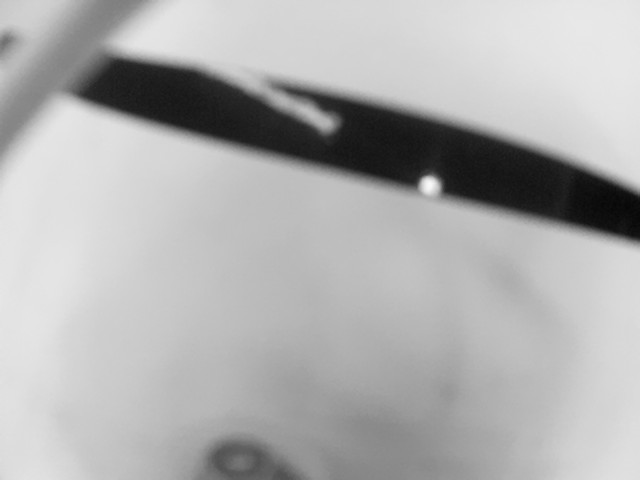
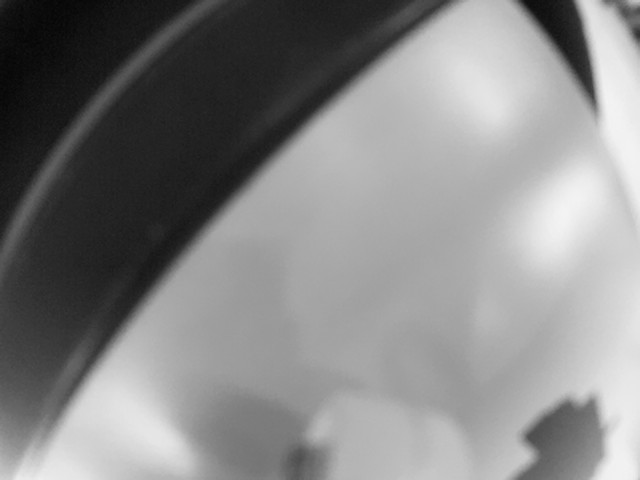
updates

diff --git a/project/main.py b/project/main.py
@@ -11,7 +11,8 @@ if __name__ == '__main__':
     if demo: 
         script([150,490])
         exit()
-    move = False 
+    move = True 
+    make_movie = True
 
     from movimentacao import init_motores, frente, giro_antih, giro_h, parado
     from raspi_camera import init_camera, tirar_foto
@@ -22,6 +23,8 @@ if __name__ == '__main__':
     pontos = [150, 490]
     camera = init_camera(cam_size=cam_size) # inicia a camera pelo modulo do raspi
     pwm_esq, pwm_dir = init_motores()
+    pot_reta = 75
+    pot_curva = 50
 
     decorrido_segundos.append(time()-decorrido_segundos[-1])
     count = 0
@@ -46,7 +49,10 @@ if __name__ == '__main__':
             high_b = np.uint8([0])
             mask = cv.inRange(treated_frame, high_b, low_b)
             contours, hierarchy = cv.findContours(mask, 1, cv.CHAIN_APPROX_NONE)
-            new_path = str("/home/perry/project/images/treated-frame" + str(count) + ".png")
+            if make_movie:
+                new_path = str("/home/perry/project/images/movie/treated-frame" + str(count) + ".png")
+                cv.imwrite(new_path, treated_frame)
+            new_path ="/home/perry/project/images/treated_frame.png"
             cv.imwrite(new_path, treated_frame)
             parcial_segundos.append(time() - tempo) # Tratar e contar a imagem
             
@@ -54,22 +60,22 @@ if __name__ == '__main__':
                 c = max(contours, key=cv.contourArea)
                 M = cv.moments(c)
                 if M["m00"] != 0 :
-                    print(M)
+                    #print(M)
                     cx = int(M['m10']/M['m00'])
                     cy = int(M['m01']/M['m00'])
                     print("CX : "+str(cx)+"  CY : "+str(cy))
                     if cx >= pontos[1] :
                         print("Horario")
                         if move:
-                            giro_h(pwm_esq=pwm_esq, pot_esq=50, pwm_dir=pwm_dir, pot_dir=0)
+                            giro_h(pwm_esq=pwm_esq, pot_esq=pot_curva, pwm_dir=pwm_dir, pot_dir=0)
                     if cx < pontos[1] and cx > pontos[0] :
                         print("On Track!")
                         if move: 
-                            frente(pwm_esq=pwm_esq, pot_esq=50, pwm_dir=pwm_dir, pot_dir=50)
+                            frente(pwm_esq=pwm_esq, pot_esq=pot_reta, pwm_dir=pwm_dir, pot_dir=pot_reta)
                     if cx <= pontos[0] :
                         print("Antihorario ")
                         if move : 
-                            giro_antih(pwm_esq=pwm_esq, pot_esq=0, pwm_dir=pwm_dir, pot_dir=50)
+                            giro_antih(pwm_esq=pwm_esq, pot_esq=0, pwm_dir=pwm_dir, pot_dir=pot_curva)
                     cv.circle(treated_frame, (cx,cy), 5, (255,255,255), -1)
                     cv.imwrite(new_path, treated_frame)
             else :
@@ -82,6 +88,7 @@ if __name__ == '__main__':
             parcial_segundos.append(time() - tempo) # Avalia a decisao e ajusta o motor 
 
             decorrido_segundos.append(parcial_segundos[1:])
+            count += 1
     
     except KeyboardInterrupt:
         exit()
